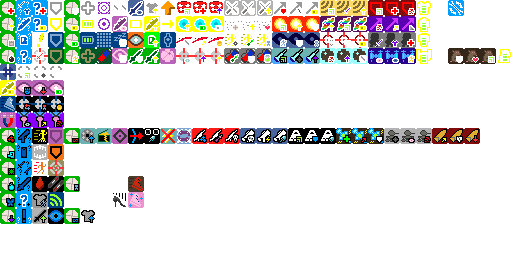
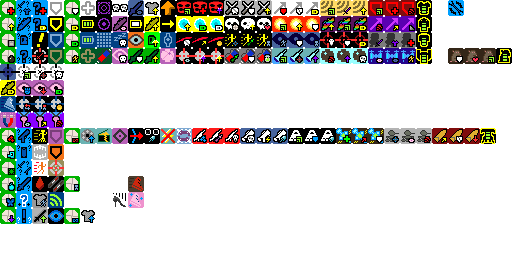
v0.0.4 New hero: Noise-Firearm Expert

diff --git a/core/src/main/java/com/shatteredpixel/shatteredpixeldungeon/actors/hero/abilities/noise/DangerClose.java b/core/src/main/java/com/shatteredpixel/shatteredpixeldungeon/actors/hero/abilities/noise/DangerClose.java
@@ -27,6 +27,7 @@ import com.shatteredpixel.shatteredpixeldungeon.actors.Actor;
 import com.shatteredpixel.shatteredpixeldungeon.actors.Char;
 import com.shatteredpixel.shatteredpixeldungeon.actors.buffs.Blindness;
 import com.shatteredpixel.shatteredpixeldungeon.actors.buffs.Buff;
+import com.shatteredpixel.shatteredpixeldungeon.actors.buffs.Terror;
 import com.shatteredpixel.shatteredpixeldungeon.actors.buffs.Vulnerable;
 import com.shatteredpixel.shatteredpixeldungeon.actors.hero.Hero;
 import com.shatteredpixel.shatteredpixeldungeon.actors.hero.Talent;
@@ -48,7 +49,7 @@ import com.watabou.utils.Random;
 public class DangerClose extends ArmorAbility {
 
     {
-        baseChargeUse = 75f;
+        baseChargeUse = 65f;
     }
 
     @Override
@@ -105,7 +106,7 @@ public class DangerClose extends ArmorAbility {
                         if (hero.pointsInTalent(Talent.EMP_SHELL) >= 1) {
                             Buff.affect(ch, Blindness.class, 1*hero.pointsInTalent(Talent.EMP_SHELL));
                             if (hero.pointsInTalent(Talent.EMP_SHELL) >= 3) {
-                                Buff.affect(ch, Blindness.class, hero.pointsInTalent(Talent.EMP_SHELL)-2);
+                                Buff.affect(ch, Terror.class, hero.pointsInTalent(Talent.EMP_SHELL)-2);
                             }
                         }
                     }

diff --git a/core/src/main/java/com/shatteredpixel/shatteredpixeldungeon/sprites/ItemSpriteSheet.java b/core/src/main/java/com/shatteredpixel/shatteredpixeldungeon/sprites/ItemSpriteSheet.java
@@ -513,6 +513,7 @@ public class ItemSpriteSheet {
 	public static final int ARMOR_MAGE      = ARMOR+6;
 	public static final int ARMOR_ROGUE     = ARMOR+7;
 	public static final int ARMOR_HUNTRESS  = ARMOR+8;
+	public static final int ARMOR_NOISE  	= ARMOR+9;
 	static{
 		assignItemRect(ARMOR_CLOTH,     15, 12);
 		assignItemRect(ARMOR_LEATHER,   12, 12);
@@ -523,6 +524,7 @@ public class ItemSpriteSheet {
 		assignItemRect(ARMOR_MAGE,      13, 15);
 		assignItemRect(ARMOR_ROGUE,     12, 14);
 		assignItemRect(ARMOR_HUNTRESS,  16, 16);
+		assignItemRect(ARMOR_NOISE,  	16, 16);
 	}
 
 	                                                                                    //16 free slots

diff --git a/core/src/main/java/com/shatteredpixel/shatteredpixeldungeon/Assets.java b/core/src/main/java/com/shatteredpixel/shatteredpixeldungeon/Assets.java
@@ -238,7 +238,7 @@ public class Assets {
 		public static final String MAGE     = "sprites/mage.png";
 		public static final String ROGUE    = "sprites/rogue.png";
 		public static final String HUNTRESS = "sprites/huntress.png";
-		public static final String NOISE	= "sprites/huntress.png";
+		public static final String NOISE	= "sprites/noise.png";
 		public static final String AVATARS  = "sprites/avatars.png";
 		public static final String PET      = "sprites/pet.png";
 		public static final String AMULET   = "sprites/amulet.png";

diff --git a/core/src/main/java/com/shatteredpixel/shatteredpixeldungeon/actors/hero/HeroClass.java b/core/src/main/java/com/shatteredpixel/shatteredpixeldungeon/actors/hero/HeroClass.java
@@ -273,13 +273,6 @@ public enum HeroClass {
 		NotMachineGun gun = new NotMachineGun();
 		(hero.belongings.weapon = gun).identify();
 
-		/*
-		RingOfReload reload = new RingOfReload();
-		reload.start = true;
-		(hero.belongings.ring = reload).identify().upgrade(3);
-		hero.belongings.ring.activate( hero );
-		*/
-
 		if (hero.belongings.weapon != null && hero.belongings.weapon instanceof FirearmWeapon){
 			((FirearmWeapon) hero.belongings.weapon).affixLoader(new SpeedLoader());
 		}

diff --git a/core/src/main/java/com/shatteredpixel/shatteredpixeldungeon/items/armor/Armor.java b/core/src/main/java/com/shatteredpixel/shatteredpixeldungeon/items/armor/Armor.java
@@ -432,8 +432,8 @@ public class Armor extends EquipableItem {
 		}
 
 		Bunker bunker = defender.buff(Bunker.class);
-		int aEnc = STRReq() - ((Hero) defender).STR();
-		if (bunker != null){
+		if (defender == hero && bunker != null){
+			int aEnc = STRReq() - ((Hero) defender).STR();
 			damage *= 1 - 0.01f * bunker.defenceBonus(((Hero) defender).lvl, Math.max(0, -aEnc)) - 0.2f * Dungeon.hero.pointsInTalent(Talent.HEAVY_ARMOR);
 		}
 

diff --git a/core/src/main/java/com/shatteredpixel/shatteredpixeldungeon/items/armor/NoiseArmor.java b/core/src/main/java/com/shatteredpixel/shatteredpixeldungeon/items/armor/NoiseArmor.java
@@ -26,7 +26,7 @@ import com.shatteredpixel.shatteredpixeldungeon.sprites.ItemSpriteSheet;
 public class NoiseArmor extends ClassArmor {
 
     {
-        image = ItemSpriteSheet.ARMOR_HUNTRESS;
+        image = ItemSpriteSheet.ARMOR_NOISE;
     }
 
 }

diff --git a/core/src/main/java/com/shatteredpixel/shatteredpixeldungeon/actors/hero/abilities/noise/SentryGun.java b/core/src/main/java/com/shatteredpixel/shatteredpixeldungeon/actors/hero/abilities/noise/SentryGun.java
@@ -49,7 +49,7 @@ public class SentryGun extends ArmorAbility {
     }
 
     {
-        baseChargeUse = 35f;
+        baseChargeUse = 45f;
     }
 
     @Override
